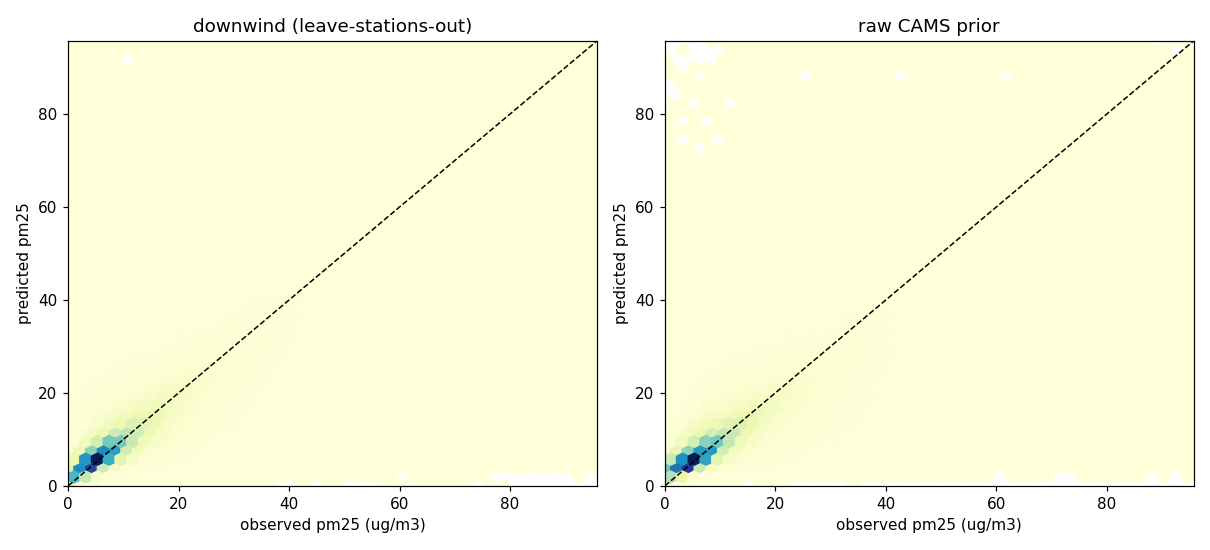
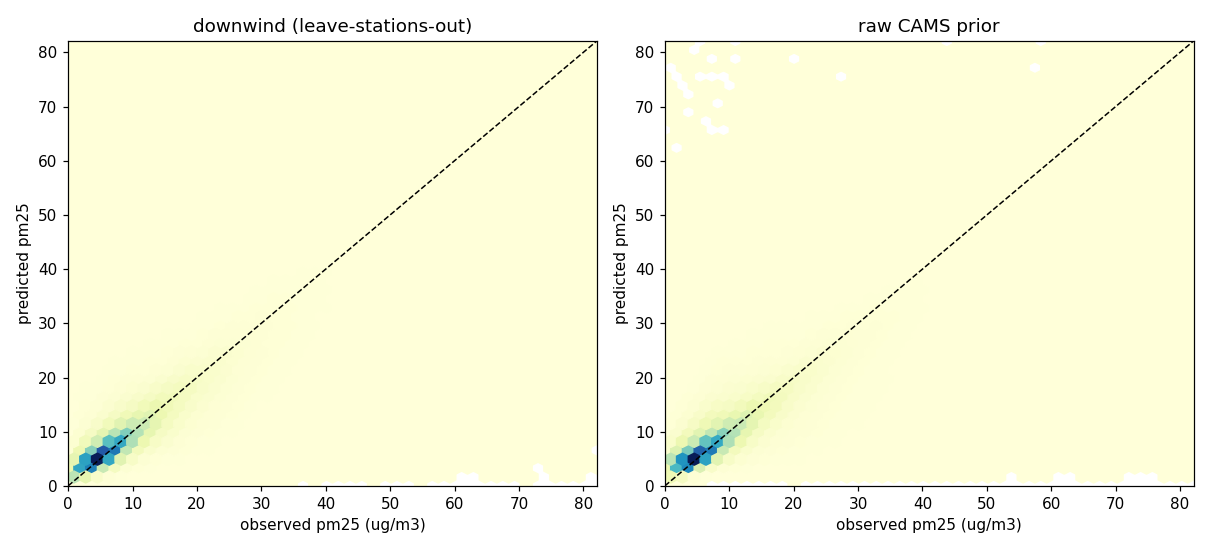
results: NO2 v1 (22.9% over CAMS) + pm25 v2 (19.2%) after label rebuild, cards + plots

diff --git a/models/air_quality_no2.md b/models/air_quality_no2.md
@@ -3,7 +3,7 @@
 Ground-level NO2 gap-filler, same architecture and validation as
 [air_quality_pm25](air_quality_pm25.md).
 
-## v1 (2026-07-09) -- withdrawn
+## First run (2026-07-09) -- withdrawn, never versioned
 
 The first run trained on 4.4M station-hours across 110 stations and produced a held-out
 RMSE of 1313 ug/m3 against a CAMS-prior RMSE of 1199 ug/m3, both physically absurd (ambient
@@ -15,8 +15,31 @@ from the registry rather than served.
 **Root cause: label hygiene, not architecture.** The pipeline now applies physical label
 bounds before training (NO2 kept in (0, 500) ug/m3, PM2.5 in (0, 800)).
 
-## v2 -- retraining
+## v1 (2026-07-09)
 
-Trains on the bounded labels over the full rebuilt station set; registered with the same
-leave-stations-out protocol once it beats the CAMS prior at held-out stations. Until then
-the app serves the raw CAMS prior for NO2 and says so.
+Retrained on bounded labels (NO2 kept in (0, 500) ug/m3) over the rebuilt station set.
+
+| | |
+|---|---|
+| registry | `air_quality_no2` v1, Hopsworks model registry |
+| training data | 6.2M station-hours, 149 stations, 5 countries (AL/BA/BE/LU/MT), 2019 to 2026-07, through `air_quality_fv` v1 |
+| validation | leave-stations-out GroupKFold (5 folds, grouped by station) |
+
+### Evaluation
+
+| metric | model | raw CAMS prior |
+|---|---|---|
+| RMSE | **10.67 ug/m3** | 13.84 ug/m3 |
+| MAE | **7.16 ug/m3** | 8.72 ug/m3 |
+| r2 | **0.52** | 0.19 |
+
+**22.9% RMSE reduction over the CAMS prior at held-out stations.** CAMS carries far less
+skill for NO2 than for PM2.5 (r2 0.19: NO2 is local, traffic-driven, and a 10 km cell
+smears it), which is exactly why the learned refinement buys more here.
+
+![pred vs obs](../assets/pred_vs_obs_no2.png)
+![error vs distance to nearest sensor](../assets/error_vs_distance_no2.png)
+
+The model beats CAMS in every distance band except a slight loss at 10-25 km, including
+the >100 km deep far field (7.7 vs 9.7 ug/m3 MAE). Same architecture, intended use and
+limits as [air_quality_pm25](air_quality_pm25.md).

diff --git a/README.md b/README.md
@@ -23,17 +23,17 @@ with distance from any sensor, so a faint cell reads as "low trust". White dots 
 measured stations. The click card interrogates any point: the model estimate, the CAMS
 prior it adjusted, and the nearest real sensor.
 
-## Results (v1)
+## Results
 
 In plain words: without this system, the best available estimate at an unmonitored point
-is the raw CAMS forecast. For PM2.5 the model's estimate is **20.9% closer to what a real
-station would have measured** (RMSE 14.76 down to 11.67 ug/m3), scored only at stations it
-never trained on.
+is the raw CAMS forecast. This system's estimate is **19.2% closer for PM2.5 and 22.9%
+closer for NO2 to what a real station would have measured** (PM2.5 RMSE 12.92 down to
+10.44 ug/m3, NO2 13.84 down to 10.67), scored only at stations the model never trained on.
 
 | model | held-out RMSE | CAMS prior RMSE | error reduction | r2 model / CAMS |
 |---|---|---|---|---|
-| air_quality_pm25 v1 | 11.67 ug/m3 | 14.76 ug/m3 | **20.9%** | 0.61 / 0.38 |
-| air_quality_no2 | retraining | | | |
+| air_quality_pm25 v2 | 10.44 ug/m3 | 12.92 ug/m3 | **19.2%** | 0.61 / 0.40 |
+| air_quality_no2 v1 | 10.67 ug/m3 | 13.84 ug/m3 | **22.9%** | 0.52 / 0.19 |
 
 ![pred vs obs, model and raw CAMS prior](assets/pred_vs_obs_pm25.png)
 
@@ -42,16 +42,18 @@ model hugs the diagonal tighter and kills the CAMS over-prediction cloud in the 
 
 ![error vs distance to nearest sensor](assets/error_vs_distance_pm25.png)
 
-Error by distance to the nearest other station: the model wins where stations are within
-50 km and roughly ties CAMS beyond that, where no neighbouring signal exists to learn from.
-That far-field gap is what the staged land-context features (v1.5) are for.
+Error by distance to the nearest other station: the model wins in the near field and,
+since the label rebuild widened the station set, in the deep far field too (>100 km:
+PM2.5 10.2 vs 11.9, NO2 7.7 vs 9.7 ug/m3 MAE). The 25-100 km band is a rough tie; that
+residual gap is what the staged land-context features (v1.5) are for. NO2 plots sit on
+the [model card](models/air_quality_no2.md) and the registry entry.
 
-Leave-stations-out GroupKFold over 80 stations, 3.3M station-hours, 5 countries
-(AL/BA/BE/LU/MT). A fifth of the remaining CAMS error at places the model has never seen
-is the whole point: that margin is what a new monitor would have measured. The first NO2
-run surfaced physically impossible label outliers (station-hours in the thousands of
-ug/m3) that drowned RMSE for model and baseline alike; it was withdrawn and the pipeline
-now applies physical label bounds before training. Per-model detail in
+Leave-stations-out GroupKFold over 149 NO2 / 117 PM2.5 stations, 11.3M station-hours,
+5 countries (AL/BA/BE/LU/MT). A fifth of the remaining CAMS error at places the model has
+never seen is the whole point: that margin is what a new monitor would have measured. The
+first NO2 run surfaced physically impossible label outliers (station-hours in the
+thousands of ug/m3) that drowned RMSE for model and baseline alike; it was withdrawn and
+the pipeline now applies physical label bounds before training. Per-model detail in
 [models/](models/).
 
 ## The idea

diff --git a/models/air_quality_pm25.md b/models/air_quality_pm25.md
@@ -3,6 +3,23 @@
 Ground-level PM2.5 gap-filler: given the CAMS modelled prior, current weather and station
 context at a point, predict what a ground station would measure there.
 
+## v2 (2026-07-09)
+
+Same architecture as v1, retrained after the station-label rebuild (the corrupt
+`station_measurement` FG was dropped and re-ingested from EEA) with physical label
+bounds (PM2.5 kept in (0, 800) ug/m3). The wider station set grew training data from
+3.3M to 4.9M station-hours over 117 stations.
+
+| metric | model | raw CAMS prior |
+|---|---|---|
+| RMSE | **10.44 ug/m3** | 12.92 ug/m3 |
+| MAE | **4.21 ug/m3** | 4.77 ug/m3 |
+| r2 | **0.61** | 0.40 |
+
+**19.2% RMSE reduction over the CAMS prior at held-out stations**, and unlike v1 the
+model now also wins the >100 km deep far field (10.2 vs 11.9 ug/m3 MAE). The app
+hot-swaps to the newest registry version automatically.
+
 ## v1 (2026-07-09)
 
 | | |